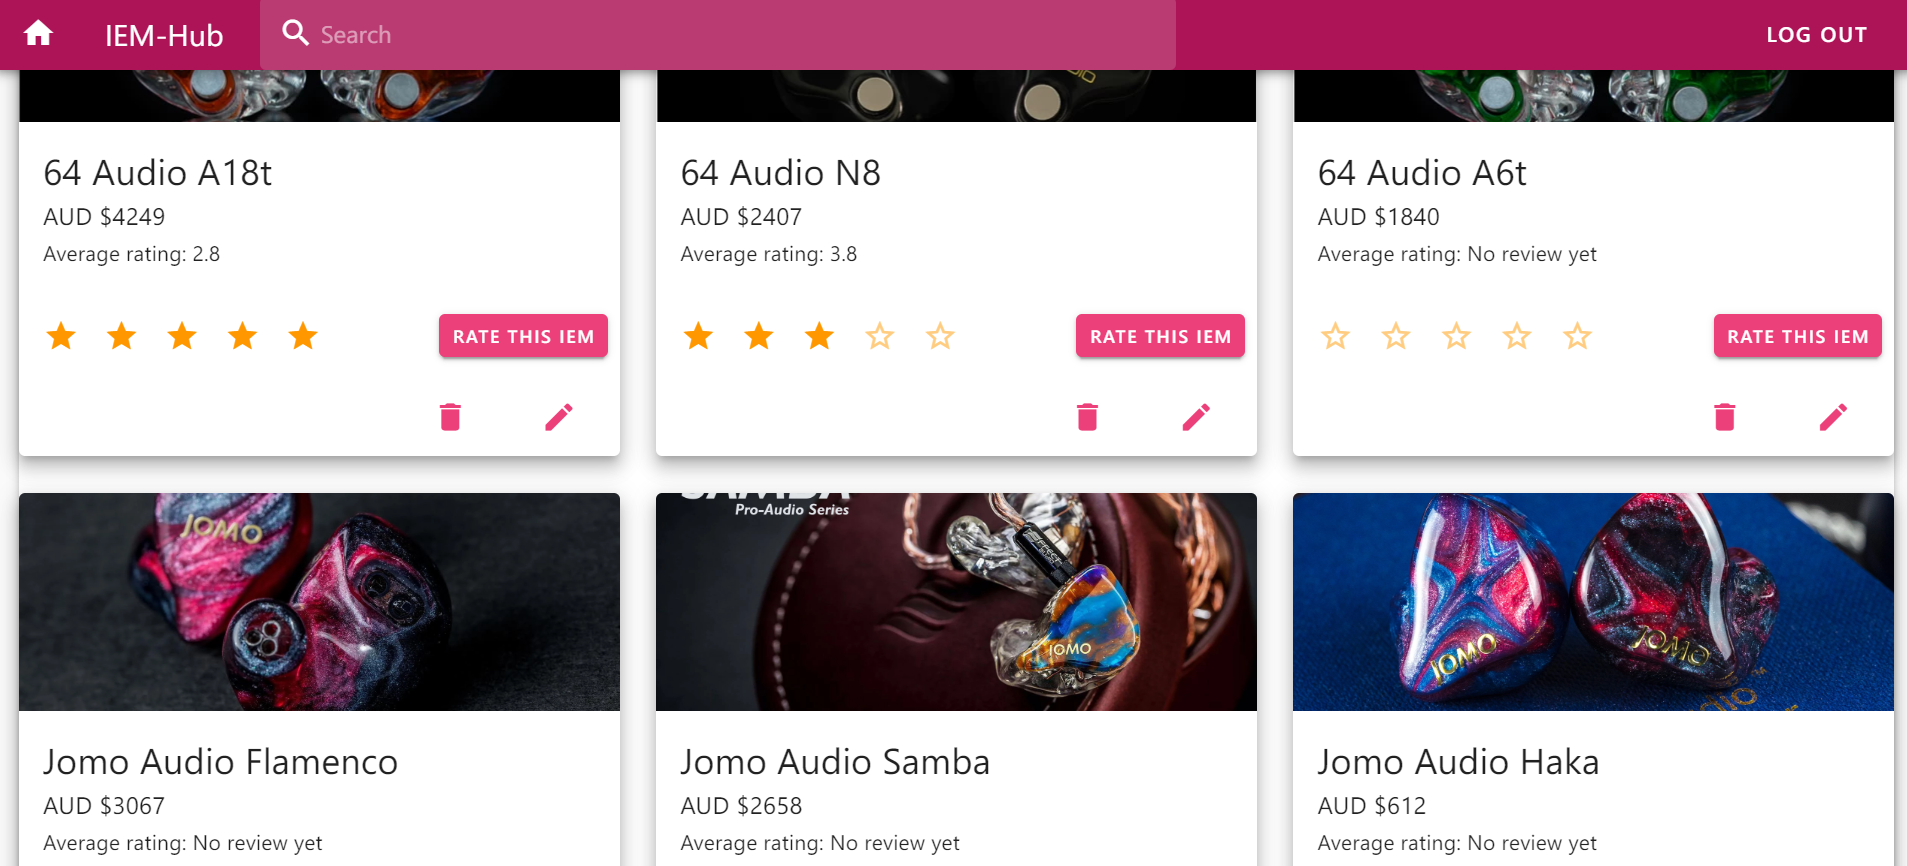
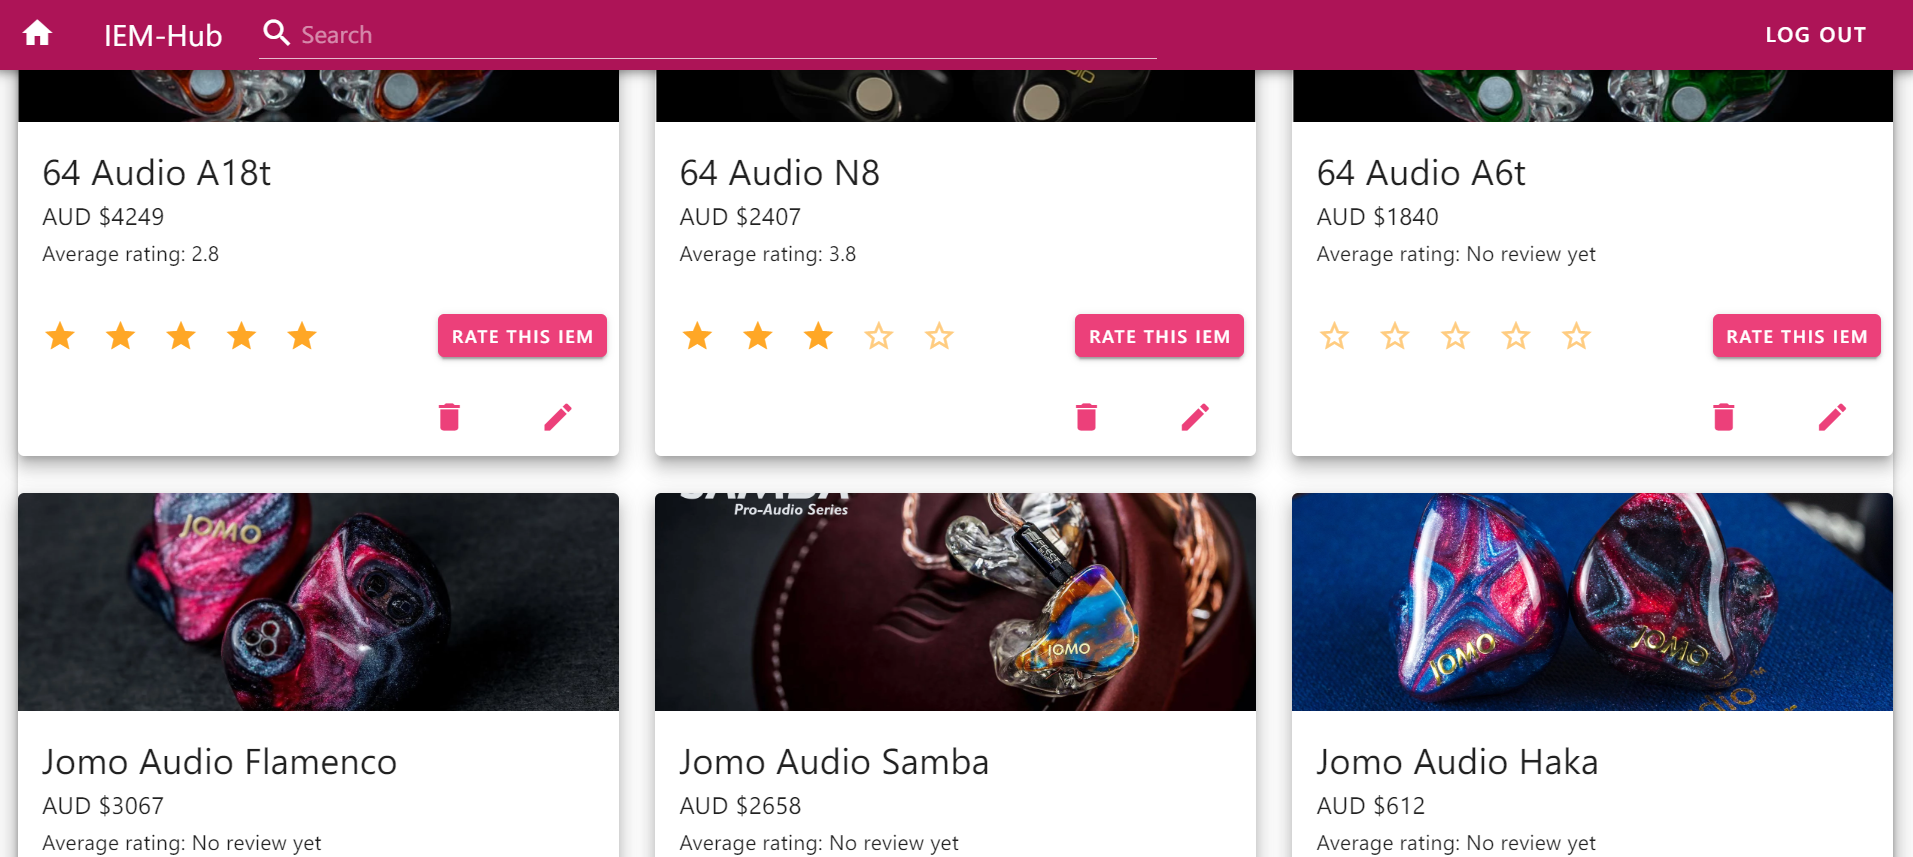
Fix search box display

diff --git a/client/src/components/CreateIEM.vue b/client/src/components/CreateIEM.vue
@@ -20,8 +20,7 @@
                 prepend-icon="list"
                 :rules="[(v) => !!v || 'Required']"
                 required
-              >
-              </v-text-field>
+              ></v-text-field>
               <v-text-field
                 v-model="iem.name"
                 label="Name"
@@ -29,8 +28,7 @@
                 prepend-icon="info"
                 :rules="[(v) => !!v || 'Required']"
                 required
-              >
-              </v-text-field>
+              ></v-text-field>
               <v-text-field
                 v-model="iem.price"
                 label="Price"
@@ -38,8 +36,7 @@
                 prepend-icon="attach_money"
                 :rules="priceRules"
                 required
-              >
-              </v-text-field>
+              ></v-text-field>
               <v-text-field
                 v-model="iem.imageUrl"
                 label="Image URL"
@@ -47,8 +44,7 @@
                 prepend-icon="link"
                 :rules="[(v) => !!v || 'Required']"
                 required
-              >
-              </v-text-field>
+              ></v-text-field>
             </v-form>
           </v-card-text>
 

diff --git a/client/src/components/EditIEM.vue b/client/src/components/EditIEM.vue
@@ -20,8 +20,7 @@
                 prepend-icon="list"
                 :rules="[(v) => !!v || 'Required']"
                 required
-              >
-              </v-text-field>
+              ></v-text-field>
               <v-text-field
                 v-model="iem.name"
                 label="Name"
@@ -29,8 +28,7 @@
                 prepend-icon="info"
                 :rules="[(v) => !!v || 'Required']"
                 required
-              >
-              </v-text-field>
+              ></v-text-field>
               <v-text-field
                 v-model="iem.price"
                 label="Price"
@@ -38,8 +36,7 @@
                 prepend-icon="attach_money"
                 :rules="priceRules"
                 required
-              >
-              </v-text-field>
+              ></v-text-field>
               <v-text-field
                 v-model="iem.imageUrl"
                 label="Image URL"
@@ -47,8 +44,7 @@
                 prepend-icon="link"
                 :rules="[(v) => !!v || 'Required']"
                 required
-              >
-              </v-text-field>
+              ></v-text-field>
             </v-form>
           </v-card-text>
 

diff --git a/client/src/components/Register.vue b/client/src/components/Register.vue
@@ -16,8 +16,7 @@
                 prepend-icon="email"
                 :rules="emailRules"
                 required
-              >
-              </v-text-field>
+              ></v-text-field>
               <v-text-field
                 v-model="password"
                 label="Password"
@@ -30,8 +29,7 @@
                 :append-icon="showPassword ? 'visibility_off' : 'visibility'"
                 @click:append="showPassword = !showPassword"
                 required
-              >
-              </v-text-field>
+              ></v-text-field>
               <v-text-field
                 v-model="confirmPassword"
                 label="Confirm Password"
@@ -42,8 +40,7 @@
                 maxlength="20"
                 :error-messages="isPasswordMatched()"
                 required
-              >
-              </v-text-field>
+              ></v-text-field>
             </v-form>
           </v-card-text>
 

diff --git a/client/src/components/Login.vue b/client/src/components/Login.vue
@@ -16,8 +16,7 @@
                 prepend-icon="email"
                 :rules="emailRules"
                 required
-              >
-              </v-text-field>
+              ></v-text-field>
               <v-text-field
                 v-model="password"
                 label="Password"
@@ -30,8 +29,7 @@
                 :append-icon="showPassword ? 'visibility_off' : 'visibility'"
                 @click:append="showPassword = !showPassword"
                 required
-              >
-              </v-text-field>
+              ></v-text-field>
             </v-form>
           </v-card-text>
 

diff --git a/client/src/App.vue b/client/src/App.vue
@@ -12,13 +12,10 @@
         v-model="search"
         placeholder="Search"
         class="mx-6"
-        flat
         clearable
         hide-details
-        solo-inverted
         prepend-inner-icon="search"
-      >
-      </v-text-field>
+      ></v-text-field>
 
       <v-spacer></v-spacer>
 

diff --git a/client/src/components/IEMCard.vue b/client/src/components/IEMCard.vue
@@ -17,8 +17,7 @@
         color="orange lighten-1"
         background-color="orange lighten-3"
         half-increments
-      >
-      </v-rating>
+      ></v-rating>
       <v-spacer></v-spacer>
       <v-btn dark small color="pink lighten-1" @click="rateIEM">
         Rate this IEM
